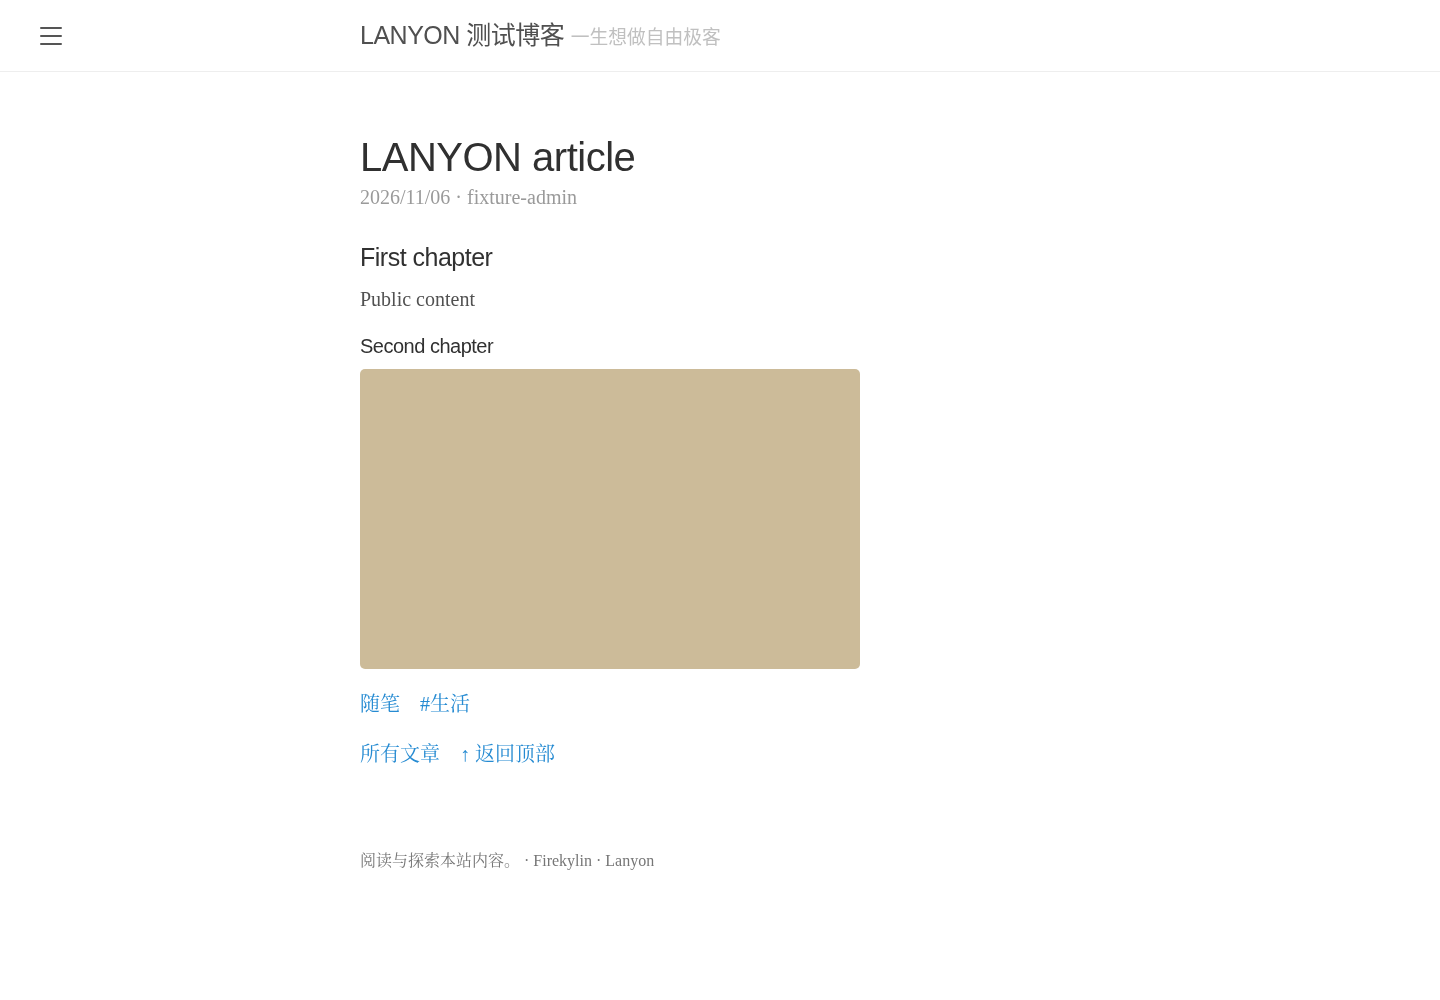
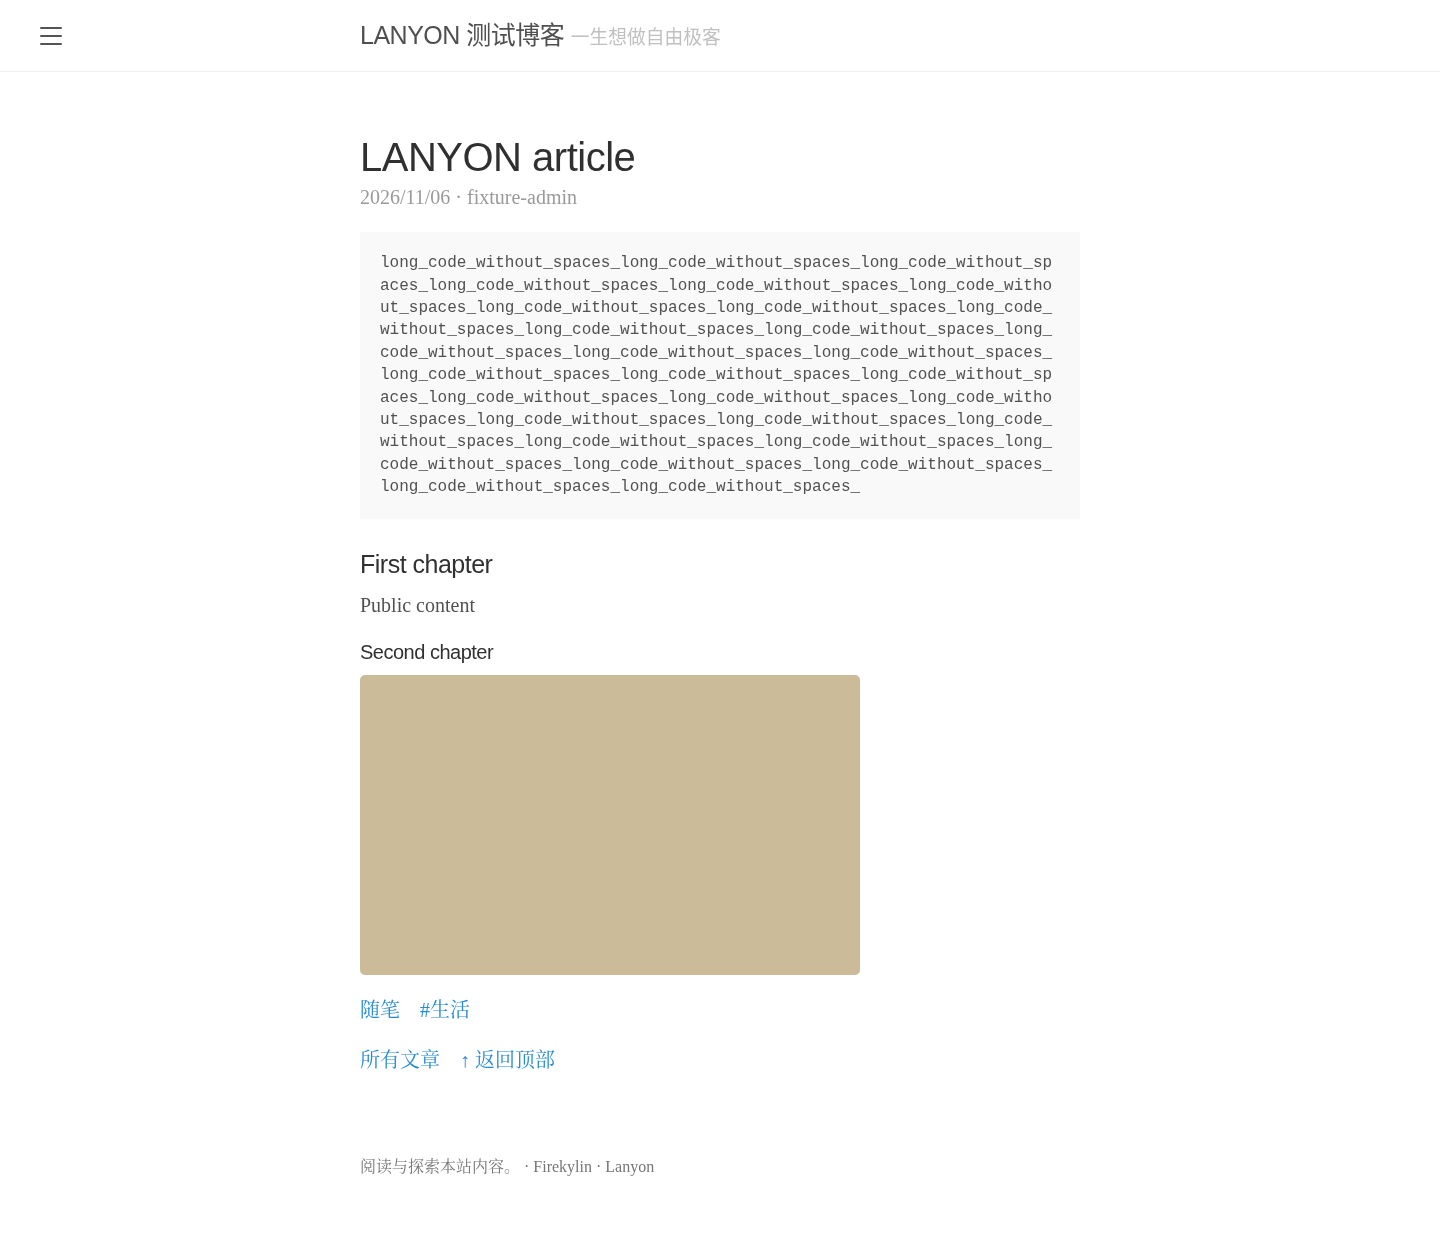
fix: render native attachment media and contain long code

diff --git a/test/lanyon.test.js b/test/lanyon.test.js
@@ -4,3 +4,5 @@ const {render,pages}=require('./port-fixture');
 for(const page of pages)test('Lanyon '+page+' renders populated and empty Widgets',async()=>{for(const empty of [false,true]){const html=await render('lanyon',page,{empty});assert.match(html,/Lanyon/);assert(!html.includes('undefined'));}});
 test('Lanyon escapes titles, rejects active cover URLs, preserves protected body',async()=>{const html=await render('lanyon','index',{hostile:true,config:{profileName:'<script>alert(1)</script>',backgroundImage:'javascript:alert(1)'}});assert(!html.includes('<img src=x onerror'));assert.match(html,/&lt;img/);assert(!html.includes('src="javascript:'));assert.match(await render('lanyon','post',{protected:true}),/protectPassword/);});
 test('Lanyon delegates comments and keeps search filters in pagination',async()=>{assert(!(await render('lanyon','post',{comments:false})).includes('id="comments"'));const html=await render('lanyon','search',{request:'/search.html?keyword=a%26b'});assert.match(html,/keyword=a%26b&amp;page=2/);});
+
+test('lanyon renders attachment media and rejects active file URLs',async()=>{const {context}=require('./port-fixture');const {Eta}=require('eta');const path=require('node:path');for(const [mime,element] of [['image/png','img'],['audio/mpeg','audio'],['video/mp4','video'],['application/pdf',null]]){const ctx=context('lanyon','attachment');const archive=await ctx.widget('Widget_Archive');archive.stack[0].options={attachment:{mime,url:'/uploads/file',name:'Download file'}};const html=await new Eta({views:path.join(__dirname,'../packages/lanyon'),varName:'firekylin'}).renderAsync('attachment',ctx);assert.match(html,/href="\/uploads\/file" download/);if(element)assert(html.includes('<'+element+' '));}const ctx=context('lanyon','attachment');(await ctx.widget('Widget_Archive')).stack[0].options={attachment:{mime:'image/png',url:'javascript:alert(1)'}};const html=await new Eta({views:path.join(__dirname,'../packages/lanyon'),varName:'firekylin'}).renderAsync('attachment',ctx);assert(!html.includes('javascript:'));});

diff --git a/packages/lanyon/res/css/theme.css b/packages/lanyon/res/css/theme.css
@@ -1056,3 +1056,6 @@ a.pagination-item:hover {
 
 /* Native Firekylin integration */
 body{overflow-wrap:anywhere}img{height:auto}iframe,video{max-width:100%}.prose table{display:block;overflow:auto}.post-actions,.tags{display:flex;gap:1rem;flex-wrap:wrap;margin:1rem 0}.pagination{display:flex;clear:both}.pagination-item{flex:1;float:none!important;min-width:0}.skip{position:absolute;top:-100px;z-index:100}.skip:focus{top:0}.sidebar-checkbox{width:1px;height:1px}input,button{font:inherit;max-width:100%;box-sizing:border-box}.footer{margin:3rem 0;font-size:.8rem;color:#767676}:focus-visible{outline:2px solid #268bd2;outline-offset:3px}.sr-only{position:absolute;width:1px;height:1px;overflow:hidden;clip:rect(0,0,0,0)}@media(prefers-reduced-motion:reduce){.wrap,.sidebar,.sidebar-toggle{transition:none}}
+
+/* Native code and attachment containment. */
+.prose pre{max-width:100%;overflow-x:auto}.attachment-media img,.attachment-media audio,.attachment-media video{max-width:100%}
